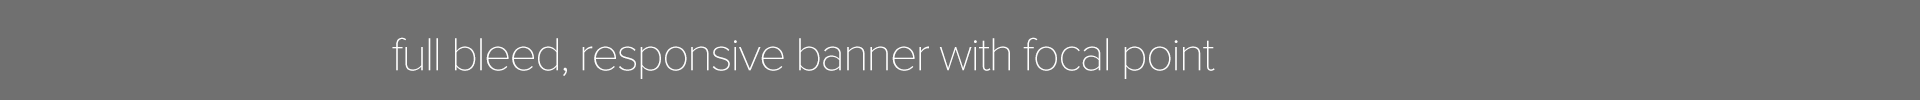
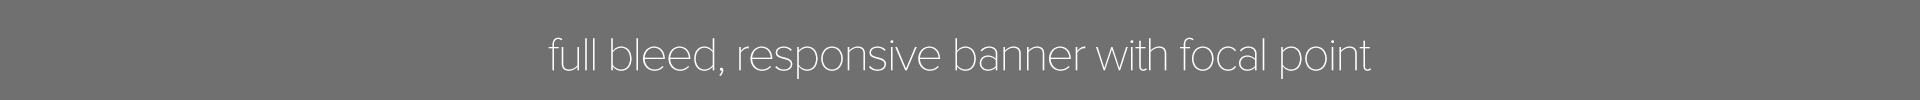
update

Changed region(s): [[0.1875, 0.39, 0.7188, 0.72]]

diff --git a/responsive-banner/styles.css b/responsive-banner/styles.css
@@ -7,15 +7,15 @@ h1 {
 	text-indent: -9999px;
 }
 
-@media (max-width: 782px) {
+@media (max-width: 852px) {
     h1 {
-        background-position: center left -695px;
+        background-position: center right -534px;
     }
 }
 
-@media (max-width: 656px) {
+@media (max-width: 658px) {
     h1 {
-        background-position: center left 45.015822784810126%;
-        background-size: 292.6829268292683% auto;
+        background-position: center right 42.313787638668785%;
+        background-size: 291.79331306990883% auto;
     }
 }
